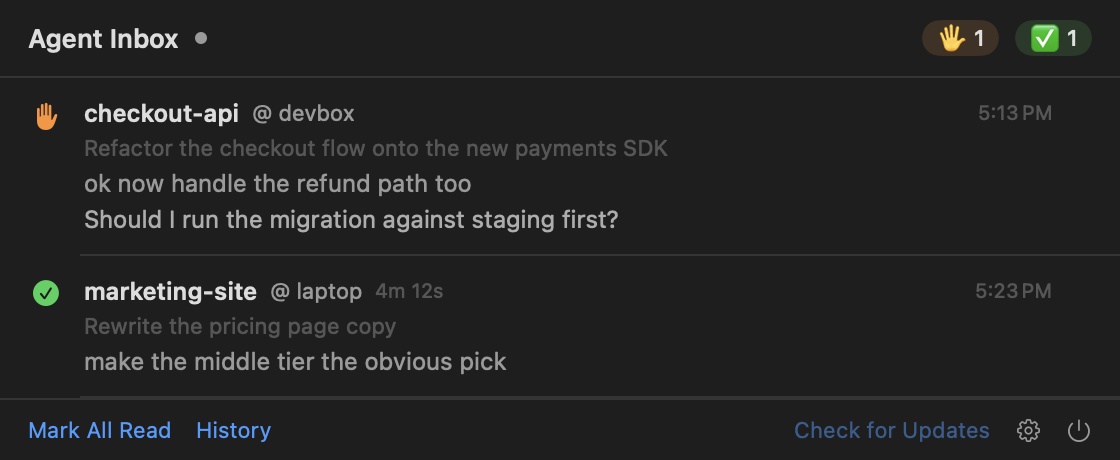
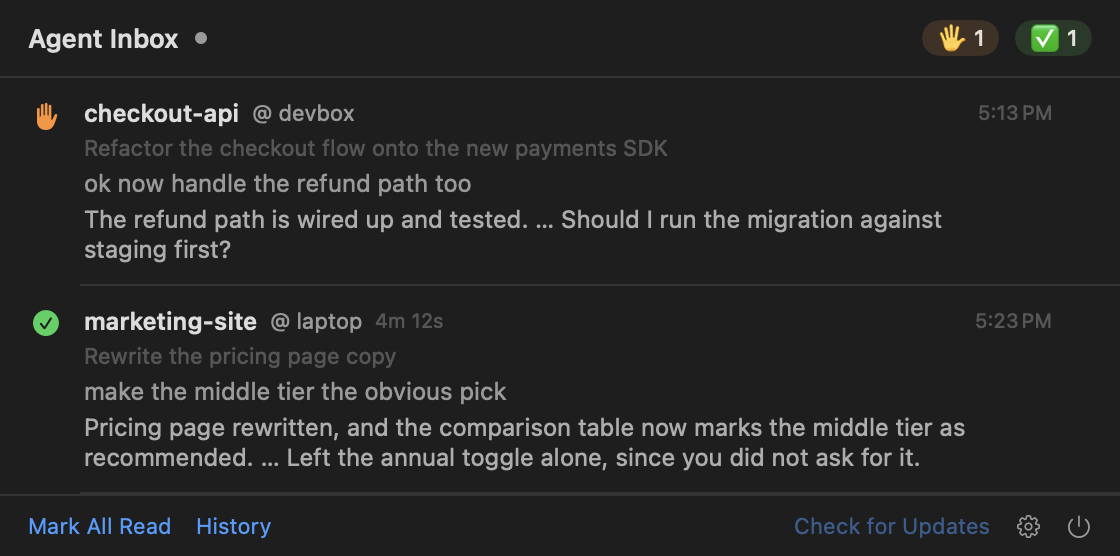
Show how the turn ended, not just what you asked
A row named the repo, the subject and your own last message, which is not
enough to recognise a conversation you left two days and several hundred
thousand tokens ago. The agent's last message was already on the wire, but as
its first 600 characters: the wrong end, cut mid-word, and the app never drew
it at all. `subtitle` is a fallback chain, `ask ?? summary ?? detail`, and
every finished item carries an ask, so the response line was never once
rendered.

The sender now reduces that message to two sentences, the one that opened the
answer and the one that closed it, and sends them as their own `💬` line. The
menu draws it outside the fallback chain, because anything folded into that
chain is by construction invisible. The hand's `❯` line gets the same
reduction: an agent that stops on a question puts the question in the final
line, which is exactly what a 400-character head cut off.

Prose only. Fenced code, tables, rules and list markers are dropped, since a
closing line of `};` identifies nothing. An opening fragment under 25
characters joins the sentence after it, so "Done." does not become half the
line. A cut that orphans a `**` or a backtick has it removed rather than drawn
as a literal marker.

An older sender sends no `💬` at all and its rows render exactly as before.

diff --git a/mac/Tests/AgentInboxTests/MessageParserTests.swift b/mac/Tests/AgentInboxTests/MessageParserTests.swift
@@ -70,6 +70,7 @@ final class MessageParserTests: XCTestCase {
             body: """
             🧵 Refactor the checkout flow to use the new payments SDK
             🗣 ok now handle the refund path too
+            💬 Refunds are wired up end to end. … Want me to run it against staging?
             Claude needs your permission to use Bash
             ❯ Should I run the migration against staging first?
             """,
@@ -83,6 +84,8 @@ final class MessageParserTests: XCTestCase {
         XCTAssertEqual(item.summary, "Refactor the checkout flow to use the new payments SDK")
         XCTAssertEqual(item.ask, "ok now handle the refund path too")
         XCTAssertEqual(item.detail, "Claude needs your permission to use Bash")
+        XCTAssertEqual(
+            item.closing, "Refunds are wired up end to end. … Want me to run it against staging?")
         XCTAssertEqual(item.waitingOn, "Should I run the migration against staging first?")
         XCTAssertEqual(item.cwd, "/home/me/checkout")
         XCTAssertEqual(item.presenceAtArrival, 120)
@@ -121,10 +124,12 @@ final class MessageParserTests: XCTestCase {
 /// carries both, so the subject was invisible in the menu even once the sender
 /// was fixed to send it.
 final class ItemThreadTests: XCTestCase {
-    private func item(summary: String?, ask: String?, detail: String? = nil) -> InboxItem {
+    private func item(
+        summary: String?, ask: String?, detail: String? = nil, closing: String? = nil
+    ) -> InboxItem {
         InboxItem(
             id: "1", kind: .needsYou, repo: "r", host: "h", duration: nil,
-            summary: summary, ask: ask, detail: detail, waitingOn: nil,
+            summary: summary, ask: ask, detail: detail, closing: closing, waitingOn: nil,
             sessionID: nil, cwd: nil, receivedAt: Date(), presenceAtArrival: 0)
     }
 
@@ -145,5 +150,30 @@ final class ItemThreadTests: XCTestCase {
     func testAnItemWithNoSubjectHasNoThreadLine() {
         XCTAssertNil(item(summary: nil, ask: "just this").thread)
         XCTAssertNil(item(summary: "", ask: "just this").thread)
+    }
+
+    /// The whole point of the closing line: a finished item always has a
+    /// subject and an ask, so anything folded into `subtitle`'s fallback chain
+    /// is never drawn. It has to be its own line or it does not exist.
+    func testTheClosingWordsSurviveASubjectAndAnAsk() {
+        let row = item(
+            summary: "NPS analysis", ask: "push it to main",
+            closing: "Pushed to main. … CI is green.")
+        XCTAssertEqual(row.thread, "NPS analysis")
+        XCTAssertEqual(row.subtitle, "push it to main")
+        XCTAssertEqual(row.closingWords, "Pushed to main. … CI is green.")
+    }
+
+    /// An older sender sends no 💬 line at all, and its items must render
+    /// exactly as they did before.
+    func testAnItemFromAnOlderSenderHasNoClosingLine() {
+        let row = item(summary: "NPS analysis", ask: "push it to main", detail: "some head text")
+        XCTAssertNil(row.closingWords)
+        XCTAssertEqual(row.subtitle, "push it to main")
+    }
+
+    func testAClosingThatOnlyRepeatsTheLineAboveIsDropped() {
+        XCTAssertNil(item(summary: nil, ask: "push it", closing: "push it").closingWords)
+        XCTAssertNil(item(summary: "s", ask: "a", closing: "").closingWords)
     }
 }

diff --git a/mac/Sources/AgentInbox/Models/InboxItem.swift b/mac/Sources/AgentInbox/Models/InboxItem.swift
@@ -35,6 +35,8 @@ enum ItemKind: String, Codable {
 ///     🖐 my-app @ devbox                     <- title
 ///     🧵 Refactor the checkout flow          <- summary
 ///     🗣 ok now handle the refund path       <- ask
+///     💬 Refunds are wired up. … Want me to  <- closing
+///        run it against staging?
 ///     Claude needs your permission to ...    <- detail
 ///     ❯ Should I run the migration first?    <- waitingOn
 ///     session a1b2c3d4 · /Users/me/my-app    <- footer
@@ -47,6 +49,12 @@ struct InboxItem: Codable, Identifiable, Equatable {
     var summary: String?
     var ask: String?
     var detail: String?
+    /// How the agent's last message opened and how it closed, already reduced
+    /// to two sentences by the sender.
+    ///
+    /// Optional because an older sender does not send it, in which case the
+    /// row falls back to `detail` exactly as it used to.
+    var closing: String?
     var waitingOn: String?
     var sessionID: String?
     var cwd: String?
@@ -77,6 +85,18 @@ struct InboxItem: Codable, Identifiable, Equatable {
     /// The one line worth showing under the title when space is tight.
     var subtitle: String? {
         ask ?? summary ?? detail
+    }
+
+    /// The agent's own words, shown under everything else.
+    ///
+    /// Kept out of `subtitle`'s fallback chain on purpose. The chain answers
+    /// "what is this conversation", and every finished item already has an
+    /// answer to that, so a closing folded into it would never once be drawn.
+    /// This is the line that tells two long sessions apart, which is exactly
+    /// the case where the subject line has stopped being enough.
+    var closingWords: String? {
+        guard let closing, !closing.isEmpty, closing != subtitle else { return nil }
+        return closing
     }
 }
 
@@ -133,6 +153,7 @@ enum MessageParser {
 
         var summary: String?
         var ask: String?
+        var closing: String?
         var waitingOn: String?
         var detailLines: [String] = []
 
@@ -143,6 +164,8 @@ enum MessageParser {
                 summary = String(line.dropFirst(1)).trimmingCharacters(in: .whitespaces)
             } else if line.hasPrefix("🗣") {
                 ask = String(line.dropFirst(1)).trimmingCharacters(in: .whitespaces)
+            } else if line.hasPrefix("💬") {
+                closing = String(line.dropFirst(1)).trimmingCharacters(in: .whitespaces)
             } else if line.hasPrefix("❯") {
                 waitingOn = String(line.dropFirst(1)).trimmingCharacters(in: .whitespaces)
             } else {
@@ -159,6 +182,7 @@ enum MessageParser {
             summary: summary,
             ask: ask,
             detail: detailLines.isEmpty ? nil : detailLines.joined(separator: "\n"),
+            closing: closing,
             waitingOn: waitingOn,
             sessionID: foot.session,
             cwd: foot.cwd,

diff --git a/mac/Tests/AgentInboxTests/ScreenshotTests.swift b/mac/Tests/AgentInboxTests/ScreenshotTests.swift
@@ -124,7 +124,8 @@ final class ScreenshotTests: XCTestCase {
                 duration: "4m 12s",
                 summary: "Rewrite the pricing page copy",
                 ask: "make the middle tier the obvious pick",
-                detail: "Pricing page rewritten, and the comparison table now marks the middle tier as recommended.",
+                detail: nil,
+                closing: "Pricing page rewritten, and the comparison table now marks the middle tier as recommended. … Left the annual toggle alone, since you did not ask for it.",
                 waitingOn: nil, sessionID: "e5f6a7b8", cwd: "/Users/you/marketing-site",
                 receivedAt: Date(timeIntervalSince1970: 1_700_000_600), presenceAtArrival: 0),
             InboxItem(
@@ -133,7 +134,8 @@ final class ScreenshotTests: XCTestCase {
                 summary: "Refactor the checkout flow onto the new payments SDK",
                 ask: "ok now handle the refund path too",
                 detail: "Claude needs your permission to use Bash",
-                waitingOn: "Should I run the migration against staging first?",
+                closing: nil,
+                waitingOn: "The refund path is wired up and tested. … Should I run the migration against staging first?",
                 sessionID: "a1b2c3d4", cwd: "/srv/checkout-api",
                 receivedAt: Date(timeIntervalSince1970: 1_700_000_000), presenceAtArrival: 0),
         ]

diff --git a/mac/Sources/AgentInbox/Views/MenuContentView.swift b/mac/Sources/AgentInbox/Views/MenuContentView.swift
@@ -241,6 +241,13 @@ private struct ItemRow: View {
                         .lineLimit(4)
                         .fixedSize(horizontal: false, vertical: true)
                 }
+                if let closing = item.closingWords {
+                    Text(MarkdownText.attributed(closing))
+                        .font(.system(size: 12))
+                        .foregroundStyle(.primary.opacity(0.75))
+                        .lineLimit(4)
+                        .fixedSize(horizontal: false, vertical: true)
+                }
                 if let waiting = item.waitingOn {
                     Text(MarkdownText.attributed(waiting))
                         .font(.system(size: 12))

diff --git a/mac/Sources/AgentInbox/Services/Notifier.swift b/mac/Sources/AgentInbox/Services/Notifier.swift
@@ -27,6 +27,7 @@ enum Notifier {
         if let summary = item.summary { lines.append(summary) }
         if let ask = item.ask { lines.append("🗣 \(ask)") }
         if let detail = item.detail { lines.append(detail) }
+        if let closing = item.closingWords { lines.append(closing) }
         if let waiting = item.waitingOn { lines.append("❯ \(waiting)") }
         // A banner is plain text, so markers would show as literal ** and `.
         content.body = MarkdownText.plain(lines.joined(separator: "\n"))

diff --git a/README.md b/README.md
@@ -7,9 +7,10 @@ box, the bottleneck isn't the agents. It's remembering who finished what, and wh
 blocked on a permission prompt. Agent Inbox turns that around: sessions interrupt *you*.
 
 - 🖐 **Needs you.** An agent hit a permission prompt, or ended its turn on a question.
-- ✅ **Finished.** A turn completed, with how long it took and the agent's closing words.
-- 🧵 **Context on every message.** What the conversation is about and what you last asked,
-  so a ping from a two-day-old session still rings the right bell.
+- ✅ **Finished.** A turn completed, with how long it took and how it ended: the first
+  sentence of the agent's answer and the last one.
+- 🧵 **Context on every message.** What the conversation is about, what you last asked, and
+  what the agent said back, so a ping from a two-day-old session still rings the right bell.
 - **One row per conversation.** A newer message retires the older ones from the same
   session, so the list says where each conversation is rather than every step it took.
 - **Typing clears it.** Start writing in a conversation and its row goes on its own. You
@@ -138,15 +139,24 @@ with the HTTP code after two failed polls.
 🧵 Refactor the checkout flow to use the new payments SDK   <- conversation summary
 🗣 ok now handle the refund path too                        <- your latest message
 Claude needs your permission to use Bash                    <- why it pinged
-❯ Should I run the migration against staging first?         <- what it's waiting on
+❯ Refunds are wired up. … Should I run the migration        <- how it ended
+   against staging first?
 ```
+
+**The last line is the agent's own words, reduced to two sentences: the one that opened
+its answer and the one that closed it,** joined by an ellipsis. A ✅ carries the same thing
+under a 💬. It is there because a subject line stops being enough to recognise a
+conversation you left two days and several hundred thousand tokens ago, and because the
+part worth reading is usually the end, which is exactly what a truncated message loses.
+Fenced code, tables and list markers are skipped, since a closing line of `};` identifies
+nothing.
 
 Three hooks produce these:
 
 | Hook event | Meaning | What you get |
 |------------|---------|--------------|
 | `UserPromptSubmit` | You handed work to the agent | Nothing. It just records a start time |
-| `Stop` | The agent finished its turn | **✅** with the duration and its closing words. Turns shorter than `MIN_SECONDS` (45s by default) are dropped, so quick back-and-forth doesn't spam you |
+| `Stop` | The agent finished its turn | **✅** with the duration and its closing words, the first and last sentence of what it said. Turns shorter than `MIN_SECONDS` (45s by default) are dropped, so quick back-and-forth doesn't spam you |
 | `Notification` | The agent needs permission, or has gone idle | **🖐** with the reason and what it just asked. A permission prompt always reports. The idle timer fires 60s after *every* turn, so it only reports when the agent's closing line was a question; otherwise the ✅ already said it |
 
 **Clicking an item clears it.** There is deliberately no jump-to-session: a notification
